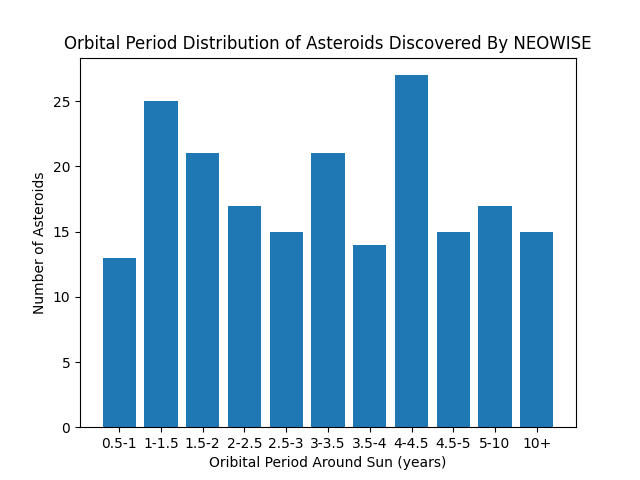
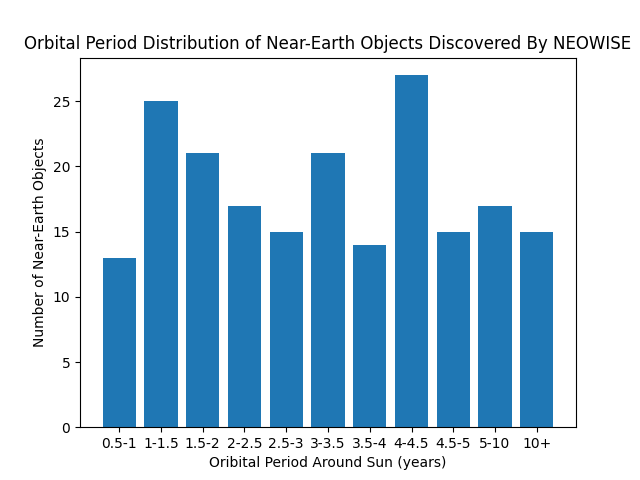
commit

Changed region(s): [[0.0312, 0.0625, 1.0, 0.125], [0.0312, 0.2812, 0.0938, 0.7188]]

diff --git a/plots.py b/plots.py
@@ -2,7 +2,6 @@ import pandas as pd
 import json
 import matplotlib.pyplot as plt
 import csv
-from operator import itemgetter
 
 with open('asteroids.json', 'rb') as f:
     text = f.read()
@@ -37,29 +36,27 @@ for op in orbital_periods:
         periods["5-10"] += 1
     if op >= 10.0:
         periods["10+"] += 1
-print(periods)
 
 buckets = list(periods.keys())
 counts = list(periods.values())
 
 fig, ax = plt.subplots()
 ax.bar(buckets, counts)
-plt.title('Orbital Period Distribution of Asteroids Discovered By NEOWISE')
+plt.title('Orbital Period Distribution of Near-Earth Objects Discovered By NEOWISE')
 plt.xlabel('Oribital Period Around Sun (years)')
-plt.ylabel('Number of Asteroids')
-plt.show()
+plt.ylabel('Number of Near-Earth Objects')
+#plt.show()
 
-'''
-buckets = list(periods.keys())
-value = list(periods.values())
 
-#df = pd.read_csv(r'causedeathfr.csv', encoding="latin-1")
-#print(df)
+
+df = pd.read_csv(r'causedeathfr.csv', encoding="latin-1")
+print(df)
 
 dict = {}
 
 columns = ['TIME', "ICD10", 'Value']
 
+'''
 df = pd.read_csv(r'causedeathfr.csv', usecols=columns)
 
 # Plot the lines

diff --git a/README.md b/README.md
@@ -1,8 +1,8 @@
-# matplotlib
+# matplotlib/project_02
 
-https://data.nasa.gov/resource/y77d-th95.json
+[Instructions For Project_02](https://github.com/mikeizbicki/cmc-csci040/tree/2022fall/project_02)
 
-https://github.com/mikeizbicki/cmc-csci040/tree/2022fall/project_02
+https://data.nasa.gov/resource/2vr3-k9wn.json
 
 http://data.un.org/
 http://data.un.org/_Docs/SYB/PDFs/SYB61_253_Population%20Growth%20Rates%20in%20Urban%20areas%20and%20Capital%20cities.pdf
